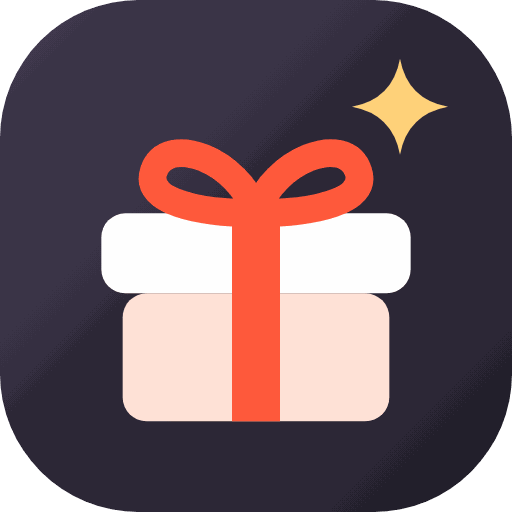
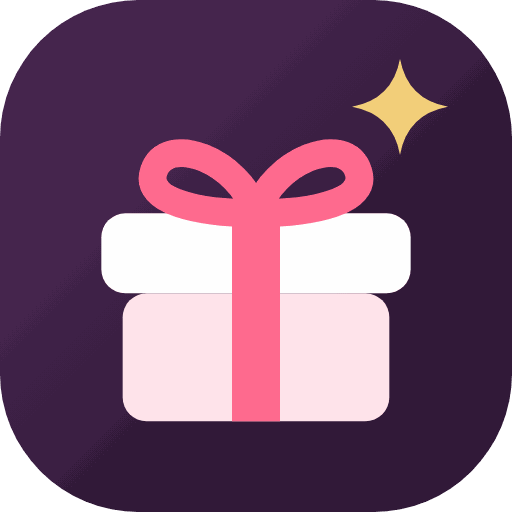
Redesign: elegant serif typography and a brighter raspberry palette
- Headings in Playfair Display (with Cyrillic); highlighted words in
  serif italic with a raspberry-to-amber gradient
- Palette: raspberry accent, deep plum ink, champagne-gold details,
  richer category tints
- Occasions band is now plum with italic serif text and gold dots
- Editors' picks section sits on a blush-to-peach panel
- Logo and favicons recoloured to match

Claude-Session: https://claude.ai/code/session_01QH8uTeE7f89zdeja6eS2wi

Changed region(s): [[0.25, 0.25, 0.75, 0.8438]]

diff --git a/src/components/react/LogoDark/index.tsx b/src/components/react/LogoDark/index.tsx
@@ -19,32 +19,32 @@ const LogoDark: React.FC = () => {
           y2="48"
           gradientUnits="userSpaceOnUse"
         >
-          <stop offset="0" stopColor="#433b52" />
-          <stop offset="1" stopColor="#1d1a24" />
+          <stop offset="0" stopColor="#4e2a57" />
+          <stop offset="1" stopColor="#24112b" />
         </linearGradient>
       </defs>
       <rect width="48" height="48" rx="13" fill="url(#gift-idea-logo-bg)" />
       <rect x="9.5" y="20" width="29" height="7.5" rx="2.25" fill="#fff" />
-      <rect x="11.5" y="27.5" width="25" height="12" rx="2.25" fill="#ffe2d6" />
-      <rect x="21.75" y="20" width="4.5" height="19.5" fill="#ff5a3c" />
+      <rect x="11.5" y="27.5" width="25" height="12" rx="2.25" fill="#ffe3ea" />
+      <rect x="21.75" y="20" width="4.5" height="19.5" fill="#ff6b8f" />
       <path
         d="M24 20c-1.6-5-8.4-7.6-9.6-3.9-.9 2.8 4.2 3.9 9.6 3.9zM24 20c1.6-5 8.4-7.6 9.6-3.9.9 2.8-4.2 3.9-9.6 3.9z"
         fill="none"
-        stroke="#ff5a3c"
+        stroke="#ff6b8f"
         strokeWidth="2.6"
         strokeLinejoin="round"
       />
       <path
         d="M37.5 5.5q.7 3.8 4.5 4.5-3.8.7-4.5 4.5-.7-3.8-4.5-4.5 3.8-.7 4.5-4.5z"
-        fill="#ffd27a"
+        fill="var(--c-secondary-light)"
       />
-      <g fill="#1d1a24">
+      <g fill="#24112b">
         <path d="M67.03 39.75Q65.65 39.75 64.41 39.31Q63.16 38.87 62.18 38.08Q61.20 37.29 60.58 36.24L64.36 34.41Q64.75 35.13 65.48 35.51Q66.20 35.88 67.06 35.88Q67.97 35.88 68.78 35.57Q69.59 35.27 70.08 34.66Q70.57 34.05 70.54 33.15L70.54 31.53Q68.97 32.55 66.67 32.55Q64.44 32.55 62.76 31.43Q61.08 30.30 60.14 28.37Q59.20 26.43 59.20 24Q59.20 21.53 60.15 19.60Q61.10 17.67 62.83 16.56Q64.56 15.45 66.88 15.45Q69.19 15.45 70.77 16.58Q70.91 16.68 71.05 16.79L71.05 15.90L74.62 15.90L74.62 33.21Q74.62 33.81 74.57 34.34Q74.52 34.88 74.38 35.40Q73.99 36.89 72.93 37.84Q71.88 38.80 70.34 39.28Q68.81 39.75 67.03 39.75M67.33 28.92Q68.69 28.92 69.51 28.30Q70.33 27.69 70.69 26.58Q71.05 25.47 71.05 24Q71.05 22.53 70.69 21.42Q70.33 20.31 69.54 19.70Q68.75 19.08 67.48 19.08Q66.11 19.08 65.24 19.75Q64.36 20.42 63.94 21.53Q63.52 22.65 63.52 24Q63.52 25.37 63.92 26.48Q64.33 27.60 65.17 28.26Q66.01 28.92 67.33 28.92" />
         <path d="M82.45 13.65L78.37 13.65L78.37 10.05L82.45 10.05L82.45 13.65M82.45 32.10L78.37 32.10L78.37 15.90L82.45 15.90" />
         <path d="M91.63 32.10L87.55 32.10L87.55 19.05L85 19.05L85 15.90L87.55 15.90Q87.55 15.30 87.58 14.57Q87.61 13.79 87.83 12.99Q88.04 12.20 88.63 11.55Q89.38 10.71 90.26 10.40Q91.13 10.10 91.96 10.07Q92.78 10.05 93.37 10.05L95.38 10.05L95.38 13.35L93.52 13.35Q92.56 13.35 92.09 13.84Q91.63 14.33 91.63 15.30L91.63 15.90L95.38 15.90L95.38 19.05L91.63 19.05" />
         <path d="M106.75 28.71L106.75 32.10Q105.07 32.41 103.46 32.38Q101.84 32.34 100.58 31.81Q99.31 31.28 98.65 30.09Q98.05 28.98 98.02 27.83Q97.99 26.69 97.99 25.23L97.99 19.05L95.23 19.05L95.23 15.90L97.99 15.90L97.99 11.40L102.07 11.40L102.07 15.90L106.75 15.90L106.75 19.05L102.07 19.05L102.07 24.99Q102.07 25.94 102.09 26.69Q102.11 27.45 102.40 27.90Q102.94 28.76 104.13 28.83Q105.31 28.91 106.75 28.71" />
       </g>
-      <g fill="#d6361b">
+      <g fill="#c7254e">
         <path d="M114.48 13.65L110.40 13.65L110.40 10.05L114.48 10.05L114.48 13.65M114.48 32.10L110.40 32.10L110.40 15.90L114.48 15.90" />
         <path d="M124.80 32.55Q122.56 32.55 120.88 31.43Q119.20 30.30 118.27 28.37Q117.33 26.43 117.33 24Q117.33 21.53 118.28 19.60Q119.23 17.67 120.96 16.56Q122.69 15.45 125.01 15.45Q127.16 15.45 128.67 16.43L128.67 10.50L132.78 10.50L132.78 32.10L129.18 32.10L129.18 31.17Q129.01 31.30 128.84 31.43Q127.21 32.55 124.80 32.55M125.46 28.92Q126.82 28.92 127.64 28.30Q128.46 27.69 128.82 26.58Q129.18 25.47 129.18 24Q129.18 22.53 128.82 21.42Q128.46 20.31 127.67 19.70Q126.88 19.08 125.61 19.08Q124.24 19.08 123.37 19.75Q122.49 20.42 122.07 21.53Q121.65 22.65 121.65 24Q121.65 25.37 122.05 26.48Q122.46 27.60 123.30 28.26Q124.14 28.92 125.46 28.92" />
         <path d="M143.76 32.55Q141.27 32.55 139.37 31.48Q137.47 30.41 136.40 28.52Q135.33 26.64 135.33 24.21Q135.33 21.55 136.38 19.59Q137.43 17.63 139.28 16.54Q141.12 15.45 143.52 15.45Q146.07 15.45 147.85 16.65Q149.64 17.85 150.50 20.03Q151.35 22.20 151.09 25.14L139.72 25.14Q139.92 26.60 140.64 27.50Q141.62 28.74 143.52 28.74Q144.72 28.74 145.57 28.22Q146.43 27.69 146.88 26.70L150.96 27.87Q150.04 30.09 148.07 31.32Q146.10 32.55 143.76 32.55M139.83 22.11L146.97 22.11Q146.79 20.79 146.28 20.07Q145.48 18.99 143.70 18.99Q141.62 18.99 140.64 20.25Q140.07 20.98 139.83 22.11" />

diff --git a/src/components/react/LogoLight/index.tsx b/src/components/react/LogoLight/index.tsx
@@ -18,8 +18,8 @@ const LogoLight: React.FC = () => {
           y2="48"
           gradientUnits="userSpaceOnUse"
         >
-          <stop offset="0" stopColor="#433b52" />
-          <stop offset="1" stopColor="#1d1a24" />
+          <stop offset="0" stopColor="#4e2a57" />
+          <stop offset="1" stopColor="#24112b" />
         </linearGradient>
       </defs>
       <rect
@@ -29,18 +29,18 @@ const LogoLight: React.FC = () => {
         fill="url(#gift-idea-logo-light-bg)"
       />
       <rect x="9.5" y="20" width="29" height="7.5" rx="2.25" fill="#fff" />
-      <rect x="11.5" y="27.5" width="25" height="12" rx="2.25" fill="#ffe2d6" />
-      <rect x="21.75" y="20" width="4.5" height="19.5" fill="#ff5a3c" />
+      <rect x="11.5" y="27.5" width="25" height="12" rx="2.25" fill="#ffe3ea" />
+      <rect x="21.75" y="20" width="4.5" height="19.5" fill="#ff6b8f" />
       <path
         d="M24 20c-1.6-5-8.4-7.6-9.6-3.9-.9 2.8 4.2 3.9 9.6 3.9zM24 20c1.6-5 8.4-7.6 9.6-3.9.9 2.8-4.2 3.9-9.6 3.9z"
         fill="none"
-        stroke="#ff5a3c"
+        stroke="#ff6b8f"
         strokeWidth="2.6"
         strokeLinejoin="round"
       />
       <path
         d="M37.5 5.5q.7 3.8 4.5 4.5-3.8.7-4.5 4.5-.7-3.8-4.5-4.5 3.8-.7 4.5-4.5z"
-        fill="#ffd27a"
+        fill="var(--c-secondary-light)"
       />
       <g fill="#ffffff">
         <path d="M67.03 39.75Q65.65 39.75 64.41 39.31Q63.16 38.87 62.18 38.08Q61.20 37.29 60.58 36.24L64.36 34.41Q64.75 35.13 65.48 35.51Q66.20 35.88 67.06 35.88Q67.97 35.88 68.78 35.57Q69.59 35.27 70.08 34.66Q70.57 34.05 70.54 33.15L70.54 31.53Q68.97 32.55 66.67 32.55Q64.44 32.55 62.76 31.43Q61.08 30.30 60.14 28.37Q59.20 26.43 59.20 24Q59.20 21.53 60.15 19.60Q61.10 17.67 62.83 16.56Q64.56 15.45 66.88 15.45Q69.19 15.45 70.77 16.58Q70.91 16.68 71.05 16.79L71.05 15.90L74.62 15.90L74.62 33.21Q74.62 33.81 74.57 34.34Q74.52 34.88 74.38 35.40Q73.99 36.89 72.93 37.84Q71.88 38.80 70.34 39.28Q68.81 39.75 67.03 39.75M67.33 28.92Q68.69 28.92 69.51 28.30Q70.33 27.69 70.69 26.58Q71.05 25.47 71.05 24Q71.05 22.53 70.69 21.42Q70.33 20.31 69.54 19.70Q68.75 19.08 67.48 19.08Q66.11 19.08 65.24 19.75Q64.36 20.42 63.94 21.53Q63.52 22.65 63.52 24Q63.52 25.37 63.92 26.48Q64.33 27.60 65.17 28.26Q66.01 28.92 67.33 28.92" />
@@ -48,7 +48,7 @@ const LogoLight: React.FC = () => {
         <path d="M91.63 32.10L87.55 32.10L87.55 19.05L85 19.05L85 15.90L87.55 15.90Q87.55 15.30 87.58 14.57Q87.61 13.79 87.83 12.99Q88.04 12.20 88.63 11.55Q89.38 10.71 90.26 10.40Q91.13 10.10 91.96 10.07Q92.78 10.05 93.37 10.05L95.38 10.05L95.38 13.35L93.52 13.35Q92.56 13.35 92.09 13.84Q91.63 14.33 91.63 15.30L91.63 15.90L95.38 15.90L95.38 19.05L91.63 19.05" />
         <path d="M106.75 28.71L106.75 32.10Q105.07 32.41 103.46 32.38Q101.84 32.34 100.58 31.81Q99.31 31.28 98.65 30.09Q98.05 28.98 98.02 27.83Q97.99 26.69 97.99 25.23L97.99 19.05L95.23 19.05L95.23 15.90L97.99 15.90L97.99 11.40L102.07 11.40L102.07 15.90L106.75 15.90L106.75 19.05L102.07 19.05L102.07 24.99Q102.07 25.94 102.09 26.69Q102.11 27.45 102.40 27.90Q102.94 28.76 104.13 28.83Q105.31 28.91 106.75 28.71" />
       </g>
-      <g fill="#ff8a6b">
+      <g fill="#ff7aa0">
         <path d="M114.48 13.65L110.40 13.65L110.40 10.05L114.48 10.05L114.48 13.65M114.48 32.10L110.40 32.10L110.40 15.90L114.48 15.90" />
         <path d="M124.80 32.55Q122.56 32.55 120.88 31.43Q119.20 30.30 118.27 28.37Q117.33 26.43 117.33 24Q117.33 21.53 118.28 19.60Q119.23 17.67 120.96 16.56Q122.69 15.45 125.01 15.45Q127.16 15.45 128.67 16.43L128.67 10.50L132.78 10.50L132.78 32.10L129.18 32.10L129.18 31.17Q129.01 31.30 128.84 31.43Q127.21 32.55 124.80 32.55M125.46 28.92Q126.82 28.92 127.64 28.30Q128.46 27.69 128.82 26.58Q129.18 25.47 129.18 24Q129.18 22.53 128.82 21.42Q128.46 20.31 127.67 19.70Q126.88 19.08 125.61 19.08Q124.24 19.08 123.37 19.75Q122.49 20.42 122.07 21.53Q121.65 22.65 121.65 24Q121.65 25.37 122.05 26.48Q122.46 27.60 123.30 28.26Q124.14 28.92 125.46 28.92" />
         <path d="M143.76 32.55Q141.27 32.55 139.37 31.48Q137.47 30.41 136.40 28.52Q135.33 26.64 135.33 24.21Q135.33 21.55 136.38 19.59Q137.43 17.63 139.28 16.54Q141.12 15.45 143.52 15.45Q146.07 15.45 147.85 16.65Q149.64 17.85 150.50 20.03Q151.35 22.20 151.09 25.14L139.72 25.14Q139.92 26.60 140.64 27.50Q141.62 28.74 143.52 28.74Q144.72 28.74 145.57 28.22Q146.43 27.69 146.88 26.70L150.96 27.87Q150.04 30.09 148.07 31.32Q146.10 32.55 143.76 32.55M139.83 22.11L146.97 22.11Q146.79 20.79 146.28 20.07Q145.48 18.99 143.70 18.99Q141.62 18.99 140.64 20.25Q140.07 20.98 139.83 22.11" />

diff --git a/src/styles/variables.scss b/src/styles/variables.scss
@@ -1,50 +1,50 @@
 :root {
-  // Brand: "ribbon red" — the colour of a bow on a wrapped present
-  --c-primary-lightest: #ffe9e2;
-  --c-primary-light: #ff9a7f;
-  --c-primary: #d6361b;
-  --c-primary-dark: #b42a12;
-  --c-primary-darkest: #6e1806;
+  // Brand: raspberry — rich and festive, like a velvet gift ribbon
+  --c-primary-lightest: #fde6ec;
+  --c-primary-light: #f58aa6;
+  --c-primary: #c7254e;
+  --c-primary-dark: #a3173d;
+  --c-primary-darkest: #6b0d27;
 
-  // Supporting: evergreen
-  --c-secondary-lightest: #e1f2ea;
-  --c-secondary-light: #8fcbb3;
-  --c-secondary: #1e6b52;
-  --c-secondary-dark: #134a38;
-  --c-secondary-darkest: #0a2c21;
+  // Supporting: champagne gold for small elegant details
+  --c-secondary-lightest: #f8efdc;
+  --c-secondary-light: #e8cf98;
+  --c-secondary: #b8893a;
+  --c-secondary-dark: #8a6424;
+  --c-secondary-darkest: #5a3f12;
 
   --c-info: #2f6fd6;
   --c-danger: #c42b2b;
   --c-success: #1c8a3a;
 
   // Warm greys, tuned to sit on the cream background
-  --c-grey-lightest: #f3ece2;
-  --c-grey-light: #d4cbc0;
-  --c-grey: #6a6372;
-  --c-grey-dark: #3d3846;
-  --c-grey-darkest: #1d1a24;
+  --c-grey-lightest: #f4ece6;
+  --c-grey-light: #d8cbc6;
+  --c-grey: #6c6070;
+  --c-grey-dark: #413446;
+  --c-grey-darkest: #24112b;
 
-  --c-bg: #faf7f2;
+  --c-bg: #fbf6f2;
   --c-surface: #ffffff;
-  --c-border: #eee7dd;
+  --c-border: #f0e4de;
   --c-text: var(--c-grey-darkest);
   --c-text-muted: var(--c-grey);
-  --c-ink: #1d1a24;
+  --c-ink: #24112b;
 
   // Every recipient category has its own colour pair (tint + readable ink)
-  --cat-women: #fde4ea;
+  --cat-women: #fcd9e3;
   --cat-women-ink: #a3224a;
-  --cat-men: #e3edff;
+  --cat-men: #d9e7ff;
   --cat-men-ink: #1f4fa3;
-  --cat-teens: #edf5cf;
+  --cat-teens: #e6f2bd;
   --cat-teens-ink: #4a5e00;
-  --cat-kids: #ffe9d2;
+  --cat-kids: #ffe0c2;
   --cat-kids-ink: #9a4708;
 
   --font-primary: "Onest", -apple-system, BlinkMacSystemFont, "Segoe UI",
     "Noto Sans", Helvetica, Arial, sans-serif, "Apple Color Emoji",
     "Segoe UI Emoji";
-  --font-secondary: "Manrope", "Onest", sans-serif;
+  --font-secondary: "Playfair Display", Georgia, "Times New Roman", serif;
 
   --radius-sm: 10px;
   --radius-md: 16px;
@@ -53,17 +53,17 @@
   --radius-full: 999px;
 
   // Soft, layered shadows — depth without hard outlines
-  --shadow-sm: 0 1px 2px rgba(60, 35, 20, 0.05);
-  --shadow-md: 0 1px 2px rgba(60, 35, 20, 0.04),
-    0 8px 24px -8px rgba(60, 35, 20, 0.12);
-  --shadow-lg: 0 2px 6px rgba(60, 35, 20, 0.04),
-    0 24px 48px -16px rgba(60, 35, 20, 0.22);
-  --shadow-pop: 0 1px 2px rgba(60, 35, 20, 0.04),
-    0 12px 32px -12px rgba(60, 35, 20, 0.18);
+  --shadow-sm: 0 1px 2px rgba(60, 20, 40, 0.05);
+  --shadow-md: 0 1px 2px rgba(60, 20, 40, 0.04),
+    0 8px 24px -8px rgba(60, 20, 40, 0.12);
+  --shadow-lg: 0 2px 6px rgba(60, 20, 40, 0.04),
+    0 24px 48px -16px rgba(60, 20, 40, 0.22);
+  --shadow-pop: 0 1px 2px rgba(60, 20, 40, 0.04),
+    0 12px 32px -12px rgba(60, 20, 40, 0.18);
   // Coloured glow for primary buttons
-  --shadow-primary: 0 10px 24px -8px rgba(214, 54, 27, 0.5);
+  --shadow-primary: 0 12px 28px -10px rgba(199, 37, 78, 0.55);
 
-  --gradient-accent: linear-gradient(100deg, #e8432a 0%, #f2715a 45%, #e85d8f 100%);
+  --gradient-accent: linear-gradient(100deg, #c7254e 0%, #e5485e 45%, #f08a4b 100%);
 
   --container: 1280px;
   --gutter: 20px;

diff --git a/src/styles/global.scss b/src/styles/global.scss
@@ -65,8 +65,8 @@ h6 {
   text-wrap: balance;
   font-family: var(--font-secondary);
   color: var(--c-grey-darkest);
-  font-weight: 800;
-  letter-spacing: -0.03em;
+  font-weight: 600;
+  letter-spacing: -0.015em;
   line-height: 1.15;
   margin-top: 0;
   margin-bottom: 0.5rem;
@@ -255,7 +255,7 @@ input {
   h1 {
     font-size: clamp(2rem, 5vw, 3.25rem);
     font-weight: 700;
-    letter-spacing: -0.04em;
+    letter-spacing: -0.015em;
     margin-bottom: 1.5rem;
   }
 
@@ -264,8 +264,11 @@ input {
   }
 }
 
-// Highlighted words in headings: warm gradient text
+// Highlighted words in headings: serif italic in a warm gradient
 .scribble {
+  font-style: italic;
+  font-weight: 500;
+  padding-right: 0.06em;
   background: var(--gradient-accent);
   -webkit-background-clip: text;
   background-clip: text;

diff --git a/src/components/react/Navigation/styles.module.scss b/src/components/react/Navigation/styles.module.scss
@@ -33,7 +33,7 @@
       border-radius: var(--radius-full);
 
       &:hover {
-        background: rgba(29, 26, 36, 0.06);
+        background: rgba(36, 17, 43, 0.06);
       }
     }
 
@@ -77,7 +77,7 @@
   .navigation__item {
     font-weight: 500;
     font-size: 1rem;
-    color: rgba(251, 246, 239, 0.7);
+    color: rgba(251, 244, 238, 0.7);
 
     &:hover {
       color: var(--c-bg);

diff --git a/src/components/react/MobileMenu/styles.module.scss b/src/components/react/MobileMenu/styles.module.scss
@@ -44,7 +44,7 @@
     position: fixed;
     inset: 0;
     z-index: 9998;
-    background: rgba(29, 26, 36, 0.45);
+    background: rgba(36, 17, 43, 0.45);
     opacity: 0;
     pointer-events: none;
     transition: opacity 0.3s var(--ease);

diff --git a/src/common/Input/styles.module.scss b/src/common/Input/styles.module.scss
@@ -29,7 +29,7 @@
     &:focus {
       outline: none;
       border-color: var(--c-primary);
-      box-shadow: 0 0 0 3px rgba(214, 54, 27, 0.14);
+      box-shadow: 0 0 0 3px rgba(199, 37, 78, 0.14);
     }
   }
 }

diff --git a/src/common/Select/styles.module.scss b/src/common/Select/styles.module.scss
@@ -29,7 +29,7 @@
     &:focus {
       outline: none;
       border-color: var(--c-primary);
-      box-shadow: 0 0 0 3px rgba(214, 54, 27, 0.14);
+      box-shadow: 0 0 0 3px rgba(199, 37, 78, 0.14);
     }
   }
 }

diff --git a/src/common/TextArea/styles.module.scss b/src/common/TextArea/styles.module.scss
@@ -32,7 +32,7 @@
     &:focus {
       outline: none;
       border-color: var(--c-primary);
-      box-shadow: 0 0 0 3px rgba(214, 54, 27, 0.14);
+      box-shadow: 0 0 0 3px rgba(199, 37, 78, 0.14);
     }
   }
 }

diff --git a/src/common/Dialog/styles.module.scss b/src/common/Dialog/styles.module.scss
@@ -49,7 +49,7 @@
   }
 
   &::backdrop {
-    background: rgba(29, 26, 36, 0.45);
+    background: rgba(36, 17, 43, 0.45);
     backdrop-filter: blur(2px);
     animation: fadeIn 0.2s ease;
   }

diff --git a/src/common/Button/style.module.scss b/src/common/Button/style.module.scss
@@ -53,7 +53,7 @@
 
     &:hover {
       color: var(--c-grey-darkest);
-      background: rgba(29, 26, 36, 0.06);
+      background: rgba(36, 17, 43, 0.06);
     }
   }
 
